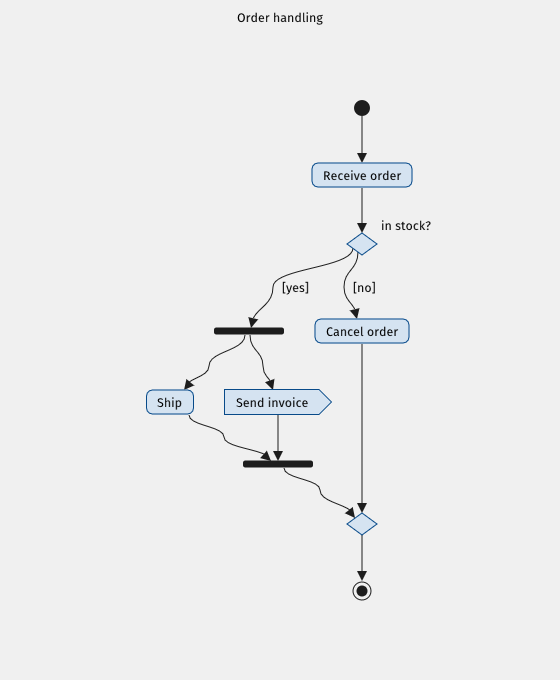
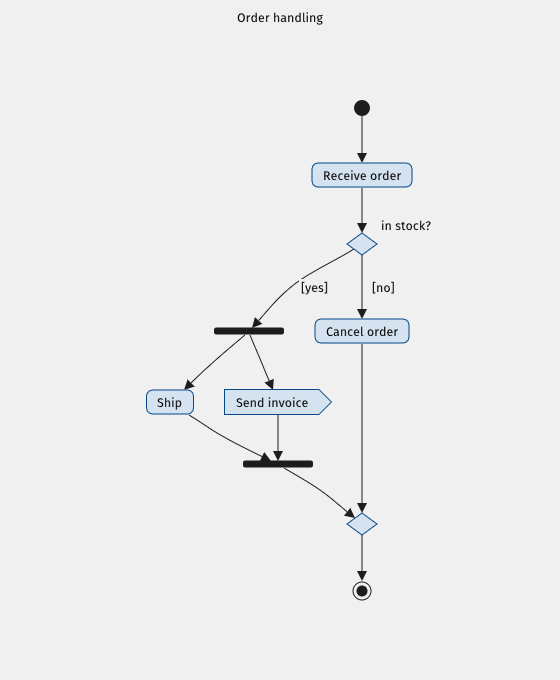
Smooth UML edges: monotone splines, straight labelled edges
Spline edges no longer force a rank-axis tangent at every point (which
made every diagonal segment an S): the cross coordinate is now a monotone
cubic of the rank coordinate, so curves bend only where the path does.
Labels are reserved beside their edge so it stays straight, and edges into
composite states are re-smoothed as one curve.

Claude-Session: https://claude.ai/code/session_01Bnauearx4XuBmeyzGBFS9F

diff --git a/imuml/imuml_graph_layout.cpp b/imuml/imuml_graph_layout.cpp
@@ -1126,27 +1126,61 @@ ImVec2 LabelSizeTd(const ImUmlGraphInput& in, const ImVec2& s) {
   return across ? ImVec2(s.y, s.x) : s;
 }
 
-/// Turns a top-down polyline into a chain of cubic Béziers whose tangents
-/// run along the rank axis at every interior point.
-void ToBezier(const ImVector<ImVec2>& pts, ImVector<ImVec2>* out) {
+/// Turns a polyline into a smooth chain of cubic Béziers through the same
+/// points. The cross coordinate is interpolated as a monotone cubic of the
+/// rank coordinate (Fritsch-Carlson, as d3's monotone curves): where the
+/// path turns, the tangent runs along the rank axis, elsewhere it is the
+/// harmonic mean of the two segments' slopes. So the curve never swings
+/// past its neighbouring points sideways: straight runs stay straight, a
+/// two-point edge is a straight line, and each turn is a single bend.
+/// `along_y`: the rank axis is y (else x).
+void ToBezier(const ImVector<ImVec2>& pts, ImVector<ImVec2>* out, bool along_y) {
   out->resize(0);
+  const int n = pts.Size;
   out->push_back(pts[0]);
-  for (int i = 0; i + 1 < pts.Size; ++i) {
-    const ImVec2 a = pts[i], b = pts[i + 1];
-    const float dy = (b.y - a.y) * 0.5f;
-    if (ImFabs(dy) < 1.0f) {
-      const ImVec2 d = (b - a) * (1.0f / 3.0f);
-      out->push_back(RoundPx(a + d));
-      out->push_back(RoundPx(b - d));
-    } else {
-      out->push_back(RoundPx(ImVec2(a.x, a.y + dy)));
-      out->push_back(RoundPx(ImVec2(b.x, b.y - dy)));
+  auto u = [&](int i) { return along_y ? pts[i].y : pts[i].x; };
+  auto v = [&](int i) { return along_y ? pts[i].x : pts[i].y; };
+  auto make = [&](float uu, float vv) { return RoundPx(along_y ? ImVec2(vv, uu) : ImVec2(uu, vv)); };
+  ImVector<float> slope, tangent;
+  slope.resize(ImMax(0, n - 1));
+  bool monotone = true;
+  for (int i = 0; i + 1 < n; ++i) {
+    const float du = u(i + 1) - u(i);
+    if (ImFabs(du) < 0.5f || (i > 0 && (du > 0.0f) != (u(i) - u(i - 1) > 0.0f))) {
+      monotone = false; // runs across the rank axis: no function of it
+      break;
     }
-    out->push_back(b);
+    slope[i] = (v(i + 1) - v(i)) / du;
+  }
+  if (!monotone) {
+    for (int i = 0; i + 1 < n; ++i) {
+      const ImVec2 d = (pts[i + 1] - pts[i]) * (1.0f / 3.0f);
+      out->push_back(RoundPx(pts[i] + d));
+      out->push_back(RoundPx(pts[i + 1] - d));
+      out->push_back(pts[i + 1]);
+    }
+    return;
+  }
+  tangent.resize(n);
+  tangent[0] = slope[0];
+  tangent[n - 1] = slope[n - 2];
+  for (int i = 1; i + 1 < n; ++i) {
+    const float a = slope[i - 1], b = slope[i];
+    tangent[i] = a * b <= 0.0f ? 0.0f : 2.0f * a * b / (a + b);
+  }
+  for (int i = 0; i + 1 < n; ++i) {
+    const float du = (u(i + 1) - u(i)) / 3.0f;
+    out->push_back(make(u(i) + du, v(i) + tangent[i] * du));
+    out->push_back(make(u(i + 1) - du, v(i + 1) - tangent[i + 1] * du));
+    out->push_back(pts[i + 1]);
   }
 }
 
 } // namespace
+
+void ImUml::SmoothPath(const ImVector<ImVec2>& pts, ImVector<ImVec2>* out, bool along_y) {
+  ToBezier(pts, out, along_y);
+}
 
 bool ImUml::RankGraph(const ImUmlGraphInput& in, ImVector<int>* ranks, ImVector<bool>* reversed) {
   RankResult r;
@@ -1348,6 +1382,13 @@ void ImUml::LayoutGraph(const ImUmlGraphInput& in, ImUmlGraphOutput* out) {
     extra_right.resize(c.L.Size);
     for (int i = 0; i < c.L.Size; ++i) {
       extra_right[i] = 0;
+      // A label's room is reserved right of its edge, so the edge runs
+      // through the label node's centre and stays straight (dot draws its
+      // edge labels beside the edge the same way).
+      if (c.L[i].IsLabel) {
+        extra_right[i] = (int)c.L[i].W;
+        c.L[i].W = 0.0f;
+      }
     }
     const float loop_size = RoundPx(ImMax(16.0f, in.NodeSpacing * 0.6f));
     for (int k = 0; k < comp.Edges.Size; ++k) {
@@ -1493,11 +1534,7 @@ void ImUml::LayoutGraph(const ImUmlGraphInput& in, ImUmlGraphOutput* out) {
       pts.resize(0);
       for (int i = 0; i < ch.Nodes.Size; ++i) {
         const int ln = ch.Nodes[i];
-        ImVec2 p = lpos[ln];
-        if (ln == ch.LabelNode) {
-          p.x = RoundPx(p.x - c.L[ln].W * 0.5f); // the edge passes left of its label
-        }
-        pts.push_back(p);
+        pts.push_back(lpos[ln]);
       }
       // Parallel edges with no virtual node between the same two nodes are
       // fanned apart through an offset midpoint.
@@ -1527,14 +1564,14 @@ void ImUml::LayoutGraph(const ImUmlGraphInput& in, ImUmlGraphOutput* out) {
           RoundPx(ClipToShape(in.Nodes[ow].Shape, lpos[w], ShapeSizeTd(in, ow), pts[pts.Size - 2]));
       if (ch.LabelNode >= 0) {
         const ImVec2 lp = lpos[ch.LabelNode];
-        path.Label = RoundPx(ImVec2(lp.x - c.L[ch.LabelNode].W * 0.5f + 6.0f + label_td.x * 0.5f, lp.y));
+        path.Label = RoundPx(ImVec2(lp.x + 6.0f + label_td.x * 0.5f, lp.y));
       } else if (has_label) {
         const ImVec2 a = pts[(pts.Size - 1) / 2], b = pts[pts.Size / 2];
         const ImVec2 m = (a + b) * 0.5f;
         path.Label = RoundPx(ImVec2(m.x + 6.0f + label_td.x * 0.5f, m.y));
       }
       if (in.EdgeStyle == ImUmlEdgeStyle_Spline) {
-        ToBezier(pts, &path.Pts);
+        ToBezier(pts, &path.Pts, true); // top-down: ranks along y
         path.Bezier = true;
       } else {
         path.Pts = pts;

diff --git a/imuml/imuml_items.cpp b/imuml/imuml_items.cpp
@@ -587,10 +587,13 @@ void PlaceScope(ImUmlDiagram* d, int scope, const ImVec2& origin, const ImVector
 }
 
 /// An edge drawn to a node inside a composite ends at the composite in its
-/// scope's layout; extend it to the inner node with a straight segment.
+/// scope's layout. Its path is rebuilt to end on the inner node instead:
+/// the end point on the composite's border is replaced by the inner node's
+/// border and the whole path is smoothed again, so it has no corner where
+/// it enters the composite.
 void ExtendIntoComposites(ImUmlDiagram* d, const ImVector<int>& edge_scope, ImVector<ImUmlGraphEdgeOut>* edge_out,
                           ImVector<ImVec2>* points) {
-  ImVector<ImVec2> rebuilt;
+  ImVector<ImVec2> line, smooth;
   for (int e = 0; e < d->Edges.Size; ++e) {
     const ImUmlEdgeRec& er = d->Edges[e];
     if (er.From < 0) {
@@ -599,48 +602,38 @@ void ExtendIntoComposites(ImUmlDiagram* d, const ImVector<int>& edge_scope, ImVe
     const int scope = edge_scope[e];
     const bool deep_from = ChildOfScope(d, er.From, scope) != er.From;
     const bool deep_to = ChildOfScope(d, er.To, scope) != er.To;
-    if (!deep_from && !deep_to) {
-      continue;
-    }
     ImUmlGraphEdgeOut& eo = (*edge_out)[e];
-    if (eo.PointCount < 2) {
+    if ((!deep_from && !deep_to) || eo.PointCount < 2) {
       continue;
     }
-    rebuilt.resize(0);
-    for (int i = 0; i < eo.PointCount; ++i) {
-      rebuilt.push_back((*points)[eo.PointStart + i]);
+    // The points the path passes through (a Bézier chain's every third).
+    line.resize(0);
+    const int step = eo.Bezier ? 3 : 1;
+    for (int i = 0; i < eo.PointCount; i += step) {
+      line.push_back((*points)[eo.PointStart + i]);
+    }
+    if (line.Size < 2) {
+      continue;
     }
     if (deep_to) {
       const ImUmlNodeRec& n = d->Nodes[er.To];
-      const ImVec2 p = rebuilt.back();
-      const ImVec2 q = ImUml::ClipToShape(n.Shape, n.Pos, n.Size, p);
-      const ImVec2 qr(RoundPx(q.x), RoundPx(q.y));
-      if (eo.Bezier) {
-        rebuilt.push_back(p + (qr - p) * (1.0f / 3.0f));
-        rebuilt.push_back(p + (qr - p) * (2.0f / 3.0f));
-      }
-      rebuilt.push_back(qr);
+      const ImVec2 q = ImUml::ClipToShape(n.Shape, n.Pos, n.Size, line[line.Size - 2]);
+      line.back() = ImVec2(RoundPx(q.x), RoundPx(q.y));
     }
     if (deep_from) {
       const ImUmlNodeRec& n = d->Nodes[er.From];
-      const ImVec2 p = rebuilt[0];
-      const ImVec2 q = ImUml::ClipToShape(n.Shape, n.Pos, n.Size, p);
-      const ImVec2 qr(RoundPx(q.x), RoundPx(q.y));
-      ImVector<ImVec2> head;
-      head.push_back(qr);
-      if (eo.Bezier) {
-        head.push_back(qr + (p - qr) * (1.0f / 3.0f));
-        head.push_back(qr + (p - qr) * (2.0f / 3.0f));
-      }
-      for (int i = 0; i < rebuilt.Size; ++i) {
-        head.push_back(rebuilt[i]);
-      }
-      rebuilt = head;
+      const ImVec2 q = ImUml::ClipToShape(n.Shape, n.Pos, n.Size, line[1]);
+      line[0] = ImVec2(RoundPx(q.x), RoundPx(q.y));
+    }
+    const ImVector<ImVec2>* out = &line;
+    if (eo.Bezier) {
+      ImUml::SmoothPath(line, &smooth, !Across(d));
+      out = &smooth;
     }
     eo.PointStart = points->Size;
-    eo.PointCount = rebuilt.Size;
-    for (int i = 0; i < rebuilt.Size; ++i) {
-      points->push_back(rebuilt[i]);
+    eo.PointCount = out->Size;
+    for (int i = 0; i < out->Size; ++i) {
+      points->push_back((*out)[i]);
     }
   }
 }

diff --git a/tests/test_imuml_graph_layout.cpp b/tests/test_imuml_graph_layout.cpp
@@ -337,6 +337,46 @@ TEST(imuml_layout, LabelsGetTheirOwnSpace) {
   }
 }
 
+TEST(imuml_layout, SplinesBendOnlyWherePathsDo) {
+  // a -> b -> c -> d, a long labelled edge a -> d, a short edge a -> b.
+  ImUmlGraphInput in = graph(5, {{0, 1}, {1, 2}, {2, 3}, {0, 3}, {0, 4}});
+  in.Edges[3].LabelSize = ImVec2(60, 14);
+  ImUmlGraphOutput out;
+  ImUml::LayoutGraph(in, &out);
+  for (int e = 0; e < in.Edges.Size; ++e) {
+    const ImUmlGraphEdgeOut& eo = out.Edges[e];
+    ASSERT_TRUE(eo.Bezier);
+    const ImVec2* p = &out.Points[eo.PointStart];
+    // Never doubling back along the rank axis.
+    for (int i = 1; i < eo.PointCount; ++i) {
+      EXPECT_GE(p[i].y, p[i - 1].y) << "edge " << e << " point " << i;
+    }
+    // Sideways, the curve turns at most once (no S-shapes).
+    ImVector<ImVec2> flat;
+    ImUml::FlattenPath(p, eo.PointCount, true, &flat);
+    int turns = 0, sign = 0;
+    for (int i = 1; i < flat.Size; ++i) {
+      const float dx = flat[i].x - flat[i - 1].x;
+      const int s = dx > 0.5f ? 1 : (dx < -0.5f ? -1 : 0);
+      if (s != 0 && sign != 0 && s != sign) {
+        ++turns;
+      }
+      sign = s != 0 ? s : sign;
+    }
+    EXPECT_LE(turns, 1) << "edge " << e;
+  }
+  // A two-point edge is a straight line: its control points lie on it.
+  ImUml::LayoutGraph(graph(3, {{0, 1}, {0, 2}}), &out);
+  const ImUmlGraphEdgeOut& shrt = out.Edges[1];
+  ASSERT_EQ(shrt.PointCount, 4);
+  const ImVec2 a = out.Points[shrt.PointStart], b = out.Points[shrt.PointStart + 3];
+  for (int k = 1; k <= 2; ++k) {
+    const ImVec2 c = out.Points[shrt.PointStart + k];
+    const float cross = (b.x - a.x) * (c.y - a.y) - (b.y - a.y) * (c.x - a.x);
+    EXPECT_NEAR(cross / std::sqrt(ImLengthSqr(b - a)), 0.0f, 1.0f);
+  }
+}
+
 TEST(imuml_layout, LeftRightIsTopDownTransposed) {
   ImUmlGraphInput td = graph(4, {{0, 1}, {0, 2}, {1, 3}}, 50, 20);
   ImUmlGraphInput lr = graph(4, {{0, 1}, {0, 2}, {1, 3}}, 20, 50);

diff --git a/imuml/imuml_internal.h b/imuml/imuml_internal.h
@@ -109,6 +109,11 @@ bool NetworkSimplex(int node_count, const ImVector<ImUmlNsEdge>& edges, ImVector
 bool RankGraph(const ImUmlGraphInput& in, ImVector<int>* ranks, ImVector<bool>* reversed);
 /// @brief The whole layout.
 void LayoutGraph(const ImUmlGraphInput& in, ImUmlGraphOutput* out);
+/// @brief A smooth cubic Bézier chain (p0, c1, c2, p1, ...) through the
+///        polyline `pts` (at least 2 points): a monotone cubic of the rank
+///        coordinate (y when `along_y`, else x), so it never swings past its
+///        points sideways; control points rounded to whole pixels.
+void SmoothPath(const ImVector<ImVec2>& pts, ImVector<ImVec2>* out, bool along_y);
 /// @brief The point where the segment from `centre` towards `towards`
 ///        leaves a node of `shape` and `size` centred at `centre`.
 ImVec2 ClipToShape(ImUmlShape shape, const ImVec2& centre, const ImVec2& size, const ImVec2& towards);

diff --git a/spec/03_uml_diagrams/DESIGN.md b/spec/03_uml_diagrams/DESIGN.md
@@ -484,12 +484,17 @@ centres, edge paths and label positions out. No ImGui context.
    each rank (half `rank_spacing` when labels doubled the ranks).
 7. **Edges** (dot phase 4, simplified): a path through the virtual node
    centres, ends clipped to the node's shape (rectangle, ellipse, circle,
-   diamond, bar). `Polyline` keeps the straight segments; `Spline` fits
-   cubic Bézier segments through the same points with tangents along the
-   rank axis at each virtual node, so edges stay within the gap between
-   neighbours as dot's box-constrained splines do. Parallel edges between
-   the same two nodes are fanned apart; self-loops are a loop on the
-   node's side away from the flow.
+   diamond, bar). A label's room is reserved to the right of its virtual
+   node, so the edge runs straight through the node's centre and the label
+   sits beside it, as dot draws edge labels. `Polyline` keeps the straight
+   segments; `Spline` turns the path into cubic Béziers whose cross
+   coordinate is a monotone cubic of the rank coordinate (Fritsch-Carlson,
+   as d3's monotone curves): the tangent runs along the rank axis where
+   the path turns and is the harmonic mean of the neighbouring slopes
+   elsewhere. The curve never swings past its points sideways, straight
+   runs stay straight and a two-point edge is a straight line. Parallel
+   edges between the same two nodes are fanned apart; self-loops are a
+   loop on the node's side away from the flow.
 8. **Direction**: computed top-down; `BottomUp`, `LeftRight`, `RightLeft`
    by swapping node width and height before and transforming after (dot's
    `rankdir`).
@@ -501,7 +506,8 @@ by dot's cluster-aware mincross: a composite's children are laid out first
 its header in the parent's layout. The use case system boundary is a
 cluster too, drawn around the use cases' bounding box. A transition that
 crosses a composite's border is ranked in the parent between the
-composite and the outer node, and drawn to the inner node.
+composite and the outer node; its path then ends on the inner node instead
+of the composite's border and is smoothed again as one curve.
 
 **Notes** with `attach` are placed as nodes in the rank of their first
 attached node, next to it (a dashed connector, no ranking edge); a note
@@ -639,6 +645,15 @@ prints one.
   are the reference); dot's box-constrained spline router and
   cluster-aware mincross (much of dot's code, small gain on diagrams of
   tens of nodes; both stay possible behind the same function).
+- **Monotone splines, not rank-axis tangents everywhere.** The first
+  version gave every path point a tangent along the rank axis (the shape
+  of dot's splines near virtual nodes); with no box router to go with it,
+  every diagonal segment became an S and long edges wiggled. Catmull-Rom
+  tangents fixed most of that but overshoot where a straight run meets a
+  turn. A monotone cubic of the rank coordinate bends only where the path
+  does and never overshoots, at the cost of a slightly sharper turn at
+  the bend. Edge weights were not the cause: dot's 1 / 2 / 8 factors
+  already keep long edges straight.
 - **Graphviz as a reference, not a dependency.** Linking `libgvc` /
   `cgraph` would bring a large C library with plugins and its own
   configuration, under the Eclipse Public License (weak copyleft) into an

diff --git a/spec/03_uml_diagrams/PLAN.md b/spec/03_uml_diagrams/PLAN.md
@@ -124,7 +124,7 @@ as a pure function, with the network simplex solver reusable by step 5.
 
 ### 5. Ordering, positions and edge routing
 
-*Result: done.* Added dot's final x balancing (a parent centred over its children), row packing of components (1.6:1) and notes placed beside their node; label points rounded to whole pixels. 7 tests in `test_imuml_graph_layout.cpp`.
+*Result: done.* Added dot's final x balancing (a parent centred over its children), row packing of components (1.6:1) and notes placed beside their node. Later revised after review: splines are monotone cubics of the rank coordinate (no S-shaped or wiggling edges), labels sit beside a straight edge, and edges into composite states are re-smoothed as one curve. 8 tests in `test_imuml_graph_layout.cpp`.
 
 **Goal:** the complete dot-style layout (graph layout steps 4-9).
 
